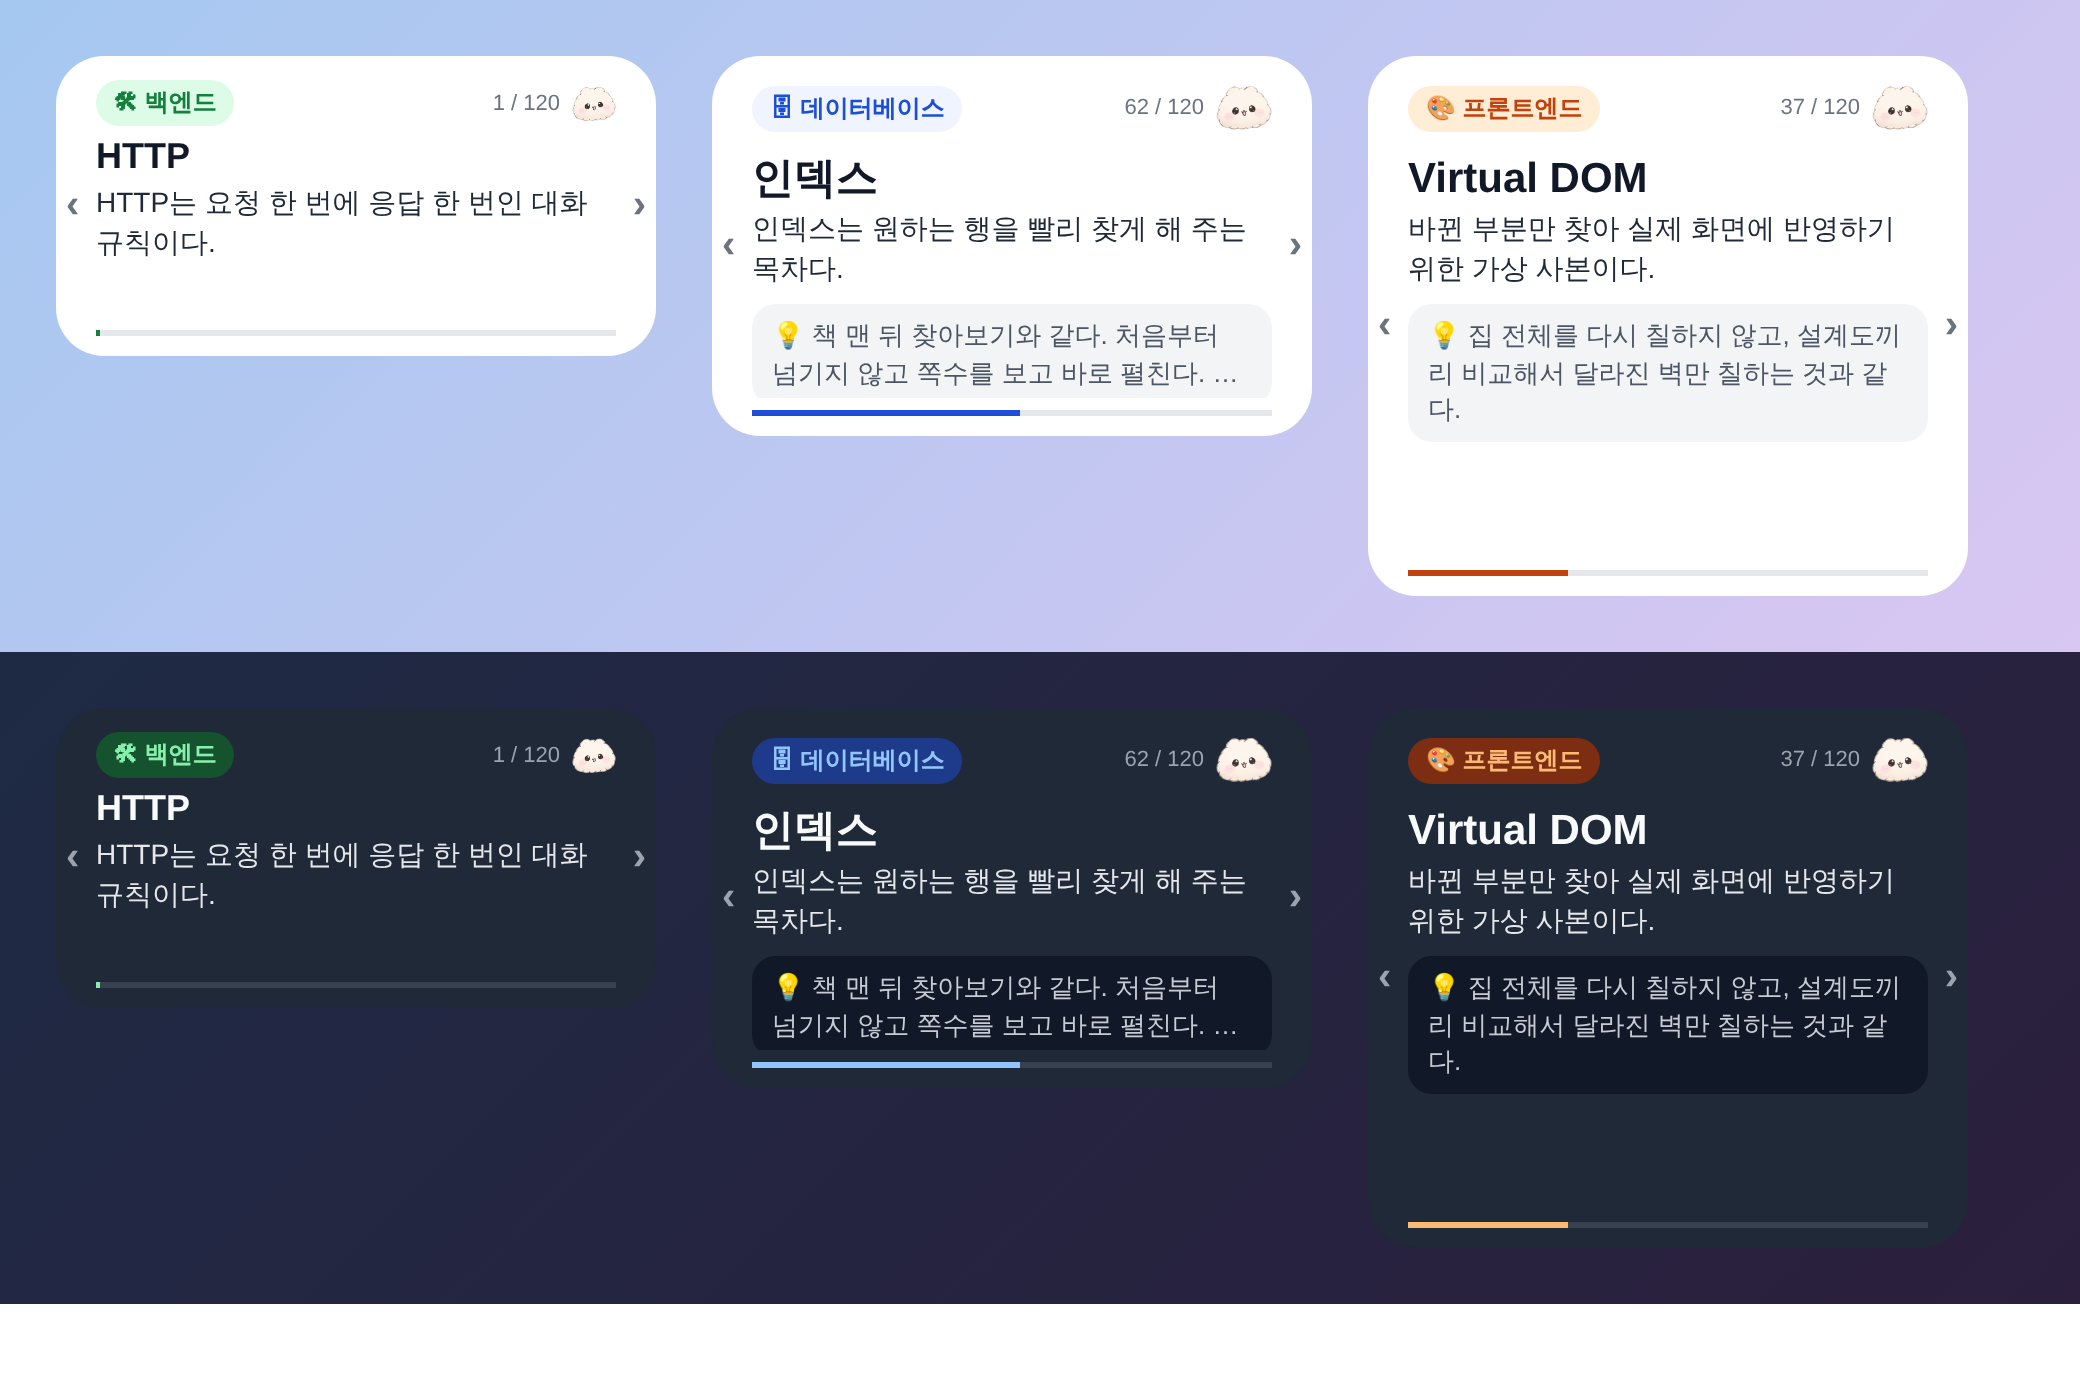
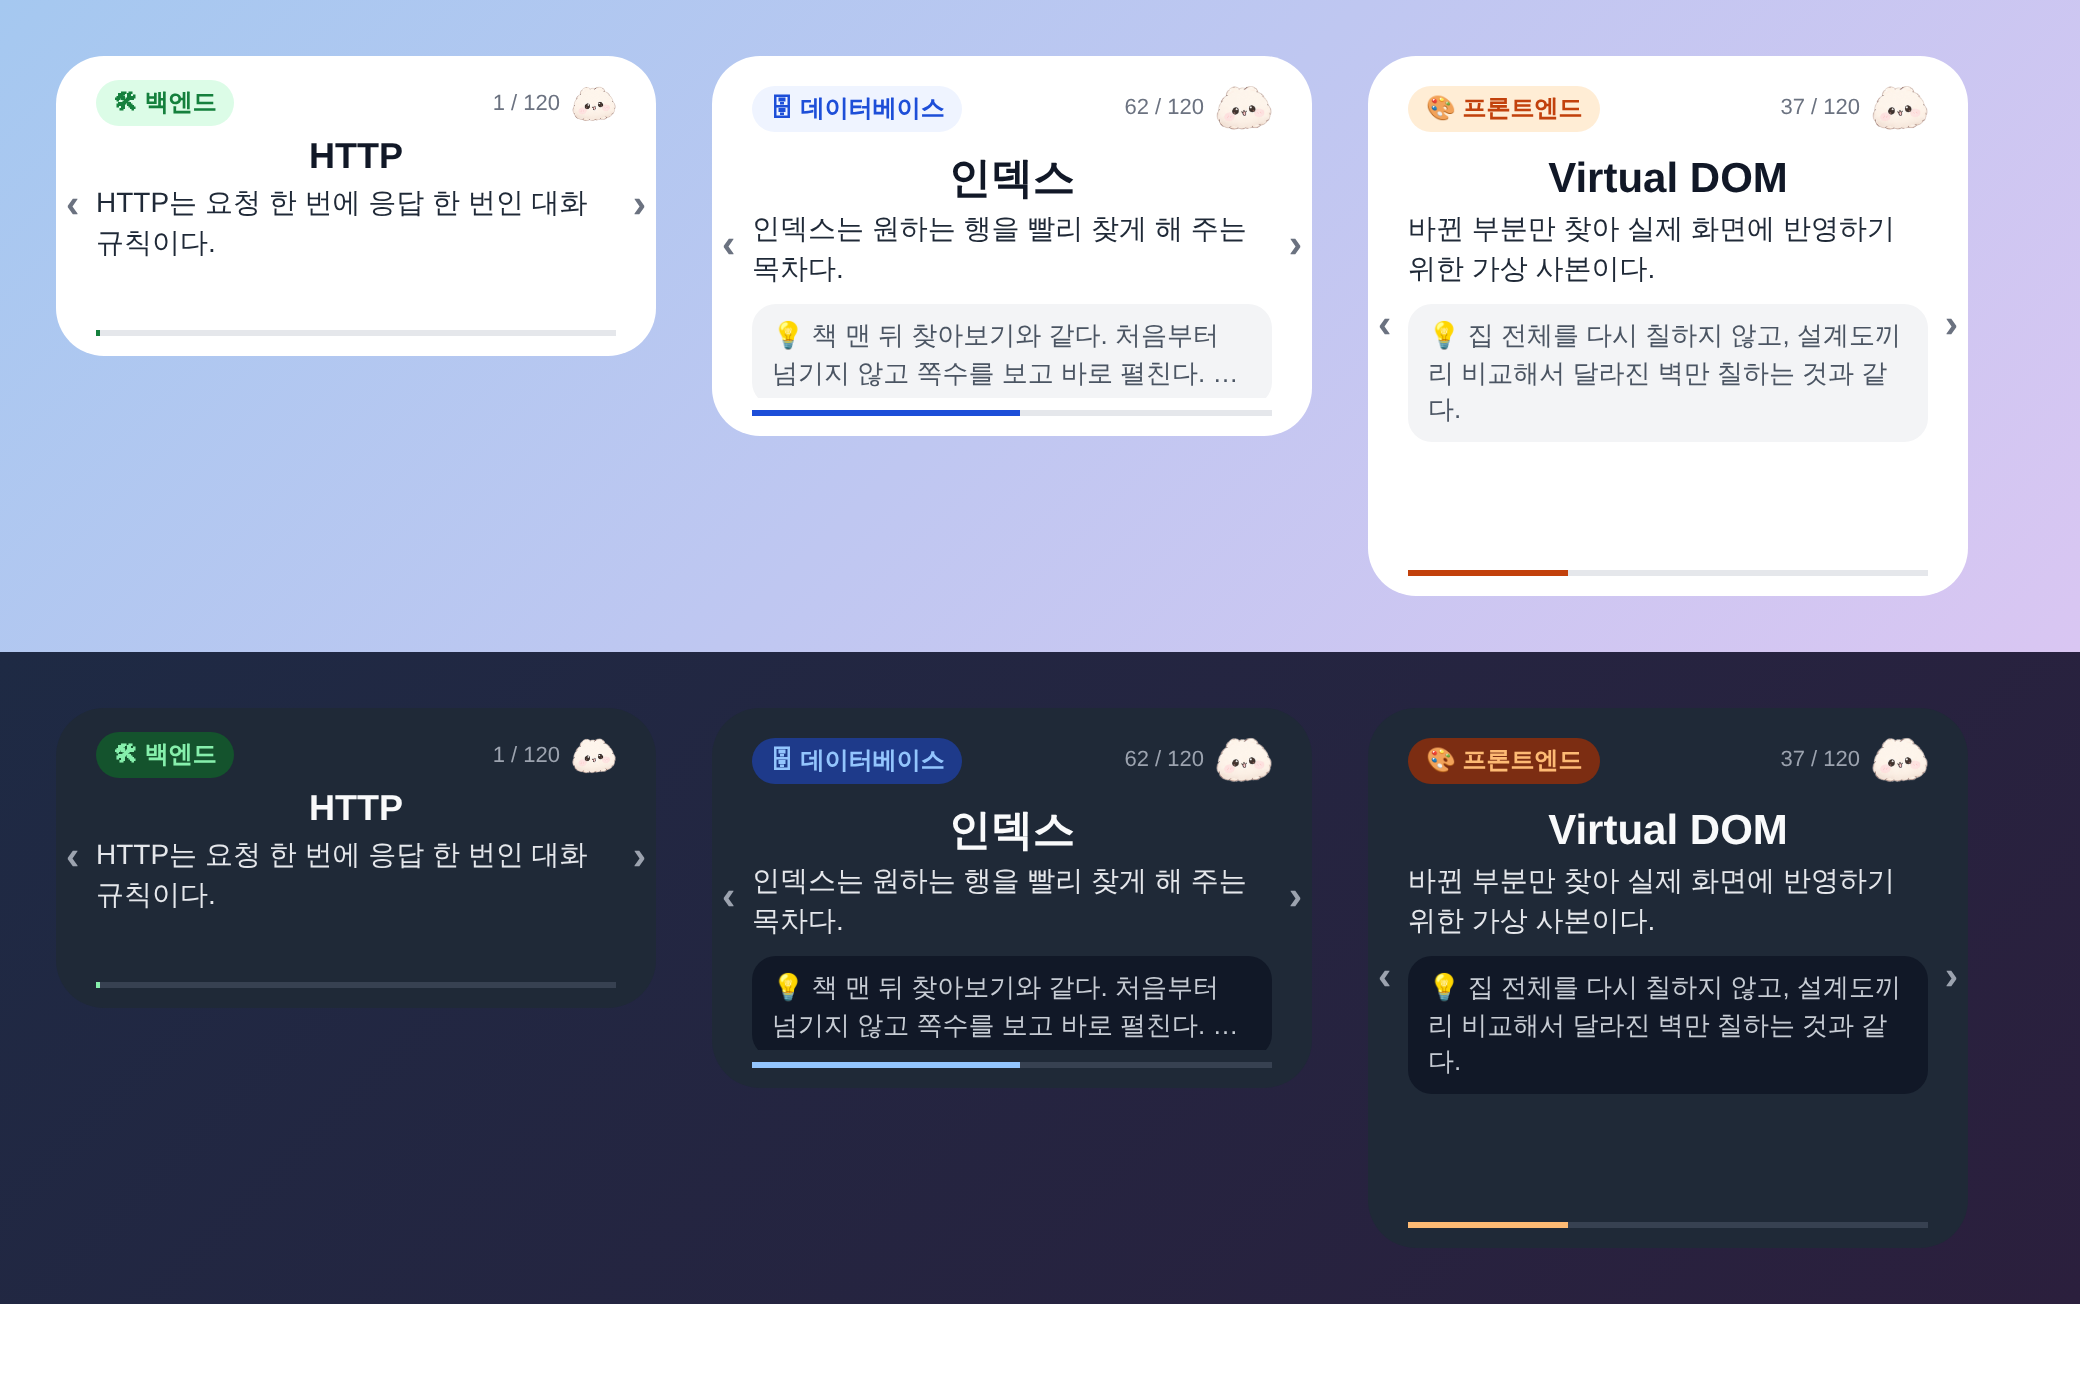
style: 위젯 용어를 가로 가운데 정렬
Claude-Session: https://claude.ai/code/session_01Ecqu3u3WxBA7EVmfoKm6se

diff --git a/android/app/src/main/java/io/github/sennaseo/csstudy/widget/CardWidget.kt b/android/app/src/main/java/io/github/sennaseo/csstudy/widget/CardWidget.kt
@@ -42,6 +42,7 @@ import androidx.glance.layout.size
 import androidx.glance.layout.width
 import androidx.glance.text.FontWeight
 import androidx.glance.text.Text
+import androidx.glance.text.TextAlign
 import androidx.glance.text.TextStyle
 // day/night 한 쌍을 받는 팩토리는 glance.color 쪽에 있고, 그게 돌려주는 타입은 glance.unit 쪽이다.
 // 이름이 같아서 헷갈리지만 둘 다 있어야 한다.
@@ -257,12 +258,15 @@ private fun CardBody(card: Card, index: Int, total: Int) {
                 }
 
                 Spacer(modifier = GlanceModifier.height(if (medium) 8.dp else 4.dp))
+                // 용어는 카드의 주인공이라 가운데에 둔다. fillMaxWidth 가 있어야 가운데 기준이 카드 폭이 된다.
                 Text(
                     text = card.term,
+                    modifier = GlanceModifier.fillMaxWidth(),
                     style = TextStyle(
                         color = Ink,
                         fontSize = if (medium) 21.sp else 18.sp,
                         fontWeight = FontWeight.Bold,
+                        textAlign = TextAlign.Center,
                     ),
                     maxLines = termLines,
                 )
